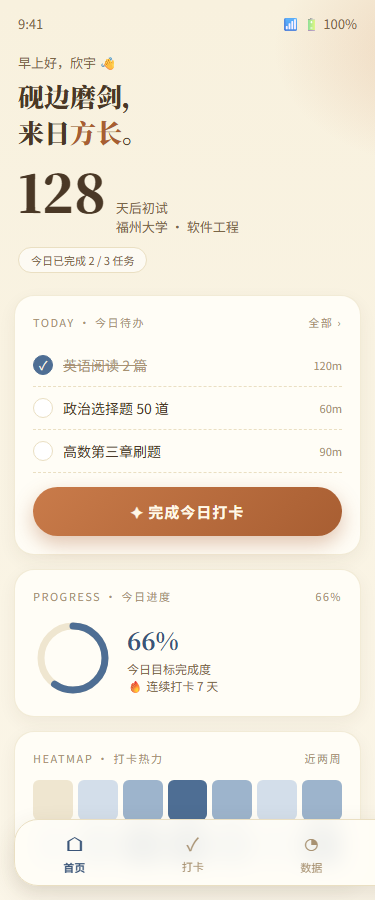
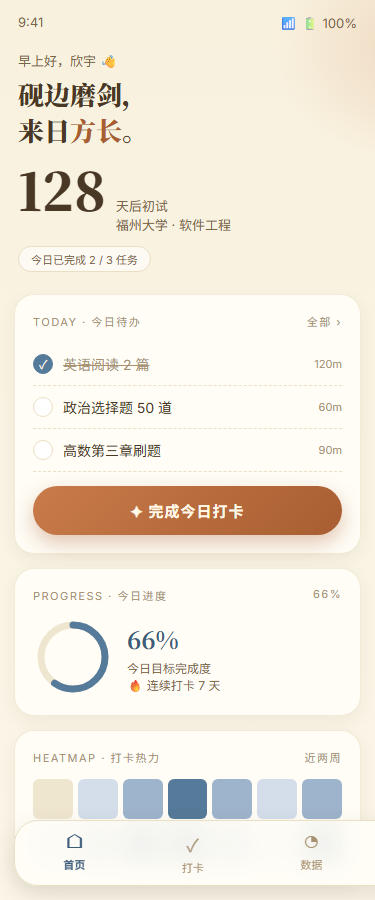
docs: UI规范V1.2，主色最终定为浅藏青#557A9A，品牌名考公打卡；同步preview设计稿

diff --git a/preview/student-web.html b/preview/student-web.html
@@ -10,7 +10,7 @@
     --card:#FFFDF6;
     --ink:#4A3826; --ink-2:#7A6647; --ink-3:#A89272;
     --line:#EADFC2;
-    --green:#4E6E94; --green-deep:#3A5578;
+    --green:#557A9A; --green-deep:#3D5C7A;
     --orange:#C97B4A; --orange-deep:#A85E32;
     --mono:"Inter",sans-serif;
     --serif:"Noto Serif SC","Songti SC",serif;
@@ -21,7 +21,7 @@
     color:var(--ink);
     background:
       radial-gradient(900px 500px at 85% -10%, rgba(201,123,74,.18), transparent 60%),
-      radial-gradient(700px 400px at -10% 20%, rgba(78,110,148,.12), transparent 60%),
+      radial-gradient(700px 400px at -10% 20%, rgba(85,122,154,.12), transparent 60%),
       linear-gradient(180deg, var(--bg-1), var(--bg-2));
     min-height:100vh;
   }
@@ -30,7 +30,7 @@
     backdrop-filter: blur(8px);
   }
   .logo{display:flex;align-items:center;gap:10px;font-family:var(--serif);font-weight:700;font-size:19px;}
-  .logo-mark{width:36px;height:36px;border-radius:50%;background:var(--green);color:#FFF8E7;display:flex;align-items:center;justify-content:center;font-family:var(--serif);font-weight:700;box-shadow:0 4px 12px rgba(78,110,148,.25);}
+  .logo-mark{width:36px;height:36px;border-radius:50%;background:var(--green);color:#FFF8E7;display:flex;align-items:center;justify-content:center;font-family:var(--serif);font-weight:700;box-shadow:0 4px 12px rgba(85,122,154,.25);}
   .menu{display:flex;gap:36px;margin-left:60px;font-size:14px;color:var(--ink-2);}
   .menu .active{color:var(--ink);font-weight:600;position:relative;}
   .menu .active::after{content:"";position:absolute;left:50%;transform:translateX(-50%);bottom:-8px;width:20px;height:2px;border-radius:2px;background:var(--orange-deep);}
@@ -50,7 +50,7 @@
   .card::before{content:"";position:absolute;top:0;left:0;right:0;height:3px;background:linear-gradient(90deg,var(--green),var(--orange));opacity:.0;}
   .card-label{font-size:12px;letter-spacing:2px;color:var(--ink-3);text-transform:uppercase;margin-bottom:14px;display:flex;justify-content:space-between;align-items:center;}
   .pill{padding:4px 12px;border-radius:20px;font-size:12px;background:#F3E8C8;color:var(--ink-2);}
-  .pill.green{background:#E0E7F0;color:var(--green-deep);}
+  .pill.green{background:#DCE4EC;color:var(--green-deep);}
   .countdown-num{font-family:var(--serif);font-size:88px;font-weight:900;line-height:1;color:var(--ink);}
   .countdown-num em{font-style:normal;font-size:22px;color:var(--ink-2);margin-left:10px;font-family:"Inter",sans-serif;font-weight:400;}
   .progress-ring{display:flex;align-items:center;gap:24px;}
@@ -78,7 +78,7 @@
 </head>
 <body>
   <div class="nav">
-    <div class="logo"><div class="logo-mark">砚</div>考研打卡</div>
+    <div class="logo"><div class="logo-mark">公</div>考公打卡</div>
     <div class="menu">
       <div class="active">首页</div><div>规划</div><div>打卡</div><div>数据</div><div>社区</div>
     </div>
@@ -142,12 +142,12 @@
         <svg class="chart" viewBox="0 0 700 150" preserveAspectRatio="none">
           <defs>
             <linearGradient id="g1" x1="0" y1="0" x2="0" y2="1">
-              <stop offset="0" stop-color="#4E6E94" stop-opacity=".22"/>
-              <stop offset="1" stop-color="#4E6E94" stop-opacity="0"/>
+              <stop offset="0" stop-color="#557A9A" stop-opacity=".22"/>
+              <stop offset="1" stop-color="#557A9A" stop-opacity="0"/>
             </linearGradient>
           </defs>
           <path d="M20,110 L100,85 L180,95 L260,55 L340,65 L420,35 L500,25 L500,150 L20,150 Z" fill="url(#g1)"/>
-          <polyline fill="none" stroke="#4E6E94" stroke-width="2.5" points="20,110 100,85 180,95 260,55 340,65 420,35 500,25"/>
+          <polyline fill="none" stroke="#557A9A" stroke-width="2.5" points="20,110 100,85 180,95 260,55 340,65 420,35 500,25"/>
           <g fill="#C97B4A"><circle cx="260" cy="55" r="5"/><circle cx="420" cy="35" r="5"/></g>
           <g fill="#A89272" font-size="11" text-anchor="middle" font-family="Inter">
             <text x="20" y="140">一</text><text x="100" y="140">二</text><text x="180" y="140">三</text>

diff --git a/preview/student-h5.html b/preview/student-h5.html
@@ -10,7 +10,7 @@
     --card:#FFFDF6;
     --ink:#4A3826; --ink-2:#7A6647; --ink-3:#A89272;
     --line:#EADFC2;
-    --green:#4E6E94; --green-deep:#3A5578;
+    --green:#557A9A; --green-deep:#3D5C7A;
     --orange:#C97B4A; --orange-deep:#A85E32;
     --serif:"Noto Serif SC","Songti SC",serif;
   }

diff --git a/考研考公规划与打卡系统前端UI设计规范.md b/考研考公规划与打卡系统前端UI设计规范.md
@@ -4,12 +4,13 @@
 
 | 项目名称 | 基于 SpringBoot 的考研考公规划与打卡系统 |
 | --- | --- |
-| 文档版本 | V1.1 |
+| 文档版本 | V1.2 |
 | 编写日期 | 2026-10-23 |
 | 编写人 | 郑欣宇 |
 | 适用端 | 考生端 Web / 考生端 H5 / 督学端 Web / 管理后台 Web |
 
-> V1.1 修订：配色方案由"松柏绿主色"调整为最终落地的"奶油米黄 + 雾蓝 #4E6E94 + 赭石橙 #C97B4A"书卷气方案，新增衬线字体族。
+> V1.1：配色由"松柏绿主色"调整为"奶油米黄 + 雾蓝 + 赭石橙"书卷气方案，新增衬线字体族。
+> V1.2：主色最终定为**浅藏青 `#557A9A`**，品牌名"考公打卡"，奶油米黄 + 赭石橙打卡按钮，设计稿见 `preview/` 目录。
 
 ---
 
@@ -52,14 +53,14 @@
 
 | Token | 色值 | 用途 |
 | --- | --- | --- |
-| `--color-primary` | `#4E6E94` | 雾蓝：主按钮、选中态、导航高亮、Logo、图表主色 |
-| `--color-primary-hover` | `#5F7FA6` | 主按钮 hover |
-| `--color-primary-active` | `#3A5578` | 主按钮按下 / 深强调 |
-| `--color-primary-light` | `#E0E7F0` | 浅底背景、标签底色 |
+| `--color-primary` | `#557A9A` | 浅藏青：主按钮、选中态、导航高亮、Logo、图表主色 |
+| `--color-primary-hover` | `#6B8FB0` | 主按钮 hover |
+| `--color-primary-active` | `#3D5C7A` | 主按钮按下 / 深强调 |
+| `--color-primary-light` | `#DCE4EC` | 浅底背景、标签底色 |
 | `--color-accent` | `#C97B4A` | 赭石橙：打卡按钮、连续天数、倒计时强调、热力图高值 |
 | `--color-accent-deep` | `#A85E32` | 行动按钮渐变深端、连续天数数字 |
 | `--color-accent-light` | `#F0E2D2` | 激励类标签底 |
-| `--color-success` | `#4E6E94` | 打卡成功（复用主色，避免颜色过多） |
+| `--color-success` | `#557A9A` | 打卡成功（复用主色，避免颜色过多） |
 | `--color-warning` | `#C99B4A` | 临近考试提醒、待办过期 |
 | `--color-danger` | `#B5533C` | 错误、禁用确认、断卡警告 |
 | `--color-info` | `#A89272` | 辅助信息 |
@@ -85,18 +86,18 @@
 
 | 端 | 主题强调色 | 视觉气质 |
 | --- | --- | --- |
-| 考生端 Web/H5 | `#4E6E94` 雾蓝 + `#C97B4A` 赭石橙按钮 | 沉静、书卷气 |
+| 考生端 Web/H5 | `#557A9A` 浅藏青 + `#C97B4A` 赭石橙按钮 | 沉静、书卷气 |
 | 督学端 | `#C97B4A` 赭石橙（顶栏/选中态） | 关怀、行动 |
-| 管理后台 | `#3A5578` 深雾蓝（侧边栏） | 专业、克制 |
+| 管理后台 | `#3D5C7A` 深藏青（侧边栏） | 专业、克制 |
 
 ### 3.5 CSS 变量示例（:root）
 
 ```css
 :root {
-  --color-primary: #4E6E94;
-  --color-primary-hover: #5F7FA6;
-  --color-primary-active: #3A5578;
-  --color-primary-light: #E0E7F0;
+  --color-primary: #557A9A;
+  --color-primary-hover: #6B8FB0;
+  --color-primary-active: #3D5C7A;
+  --color-primary-light: #DCE4EC;
   --color-accent: #C97B4A;
   --color-accent-deep: #A85E32;
   --color-accent-light: #F0E2D2;
